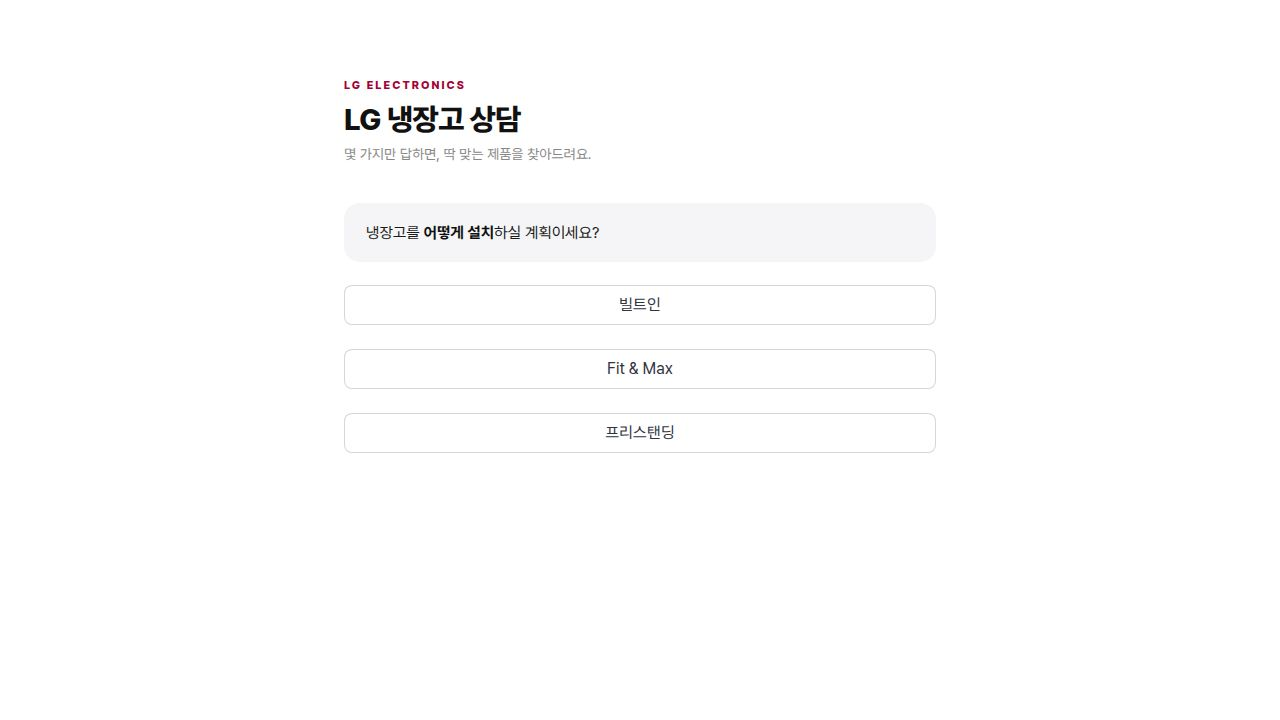
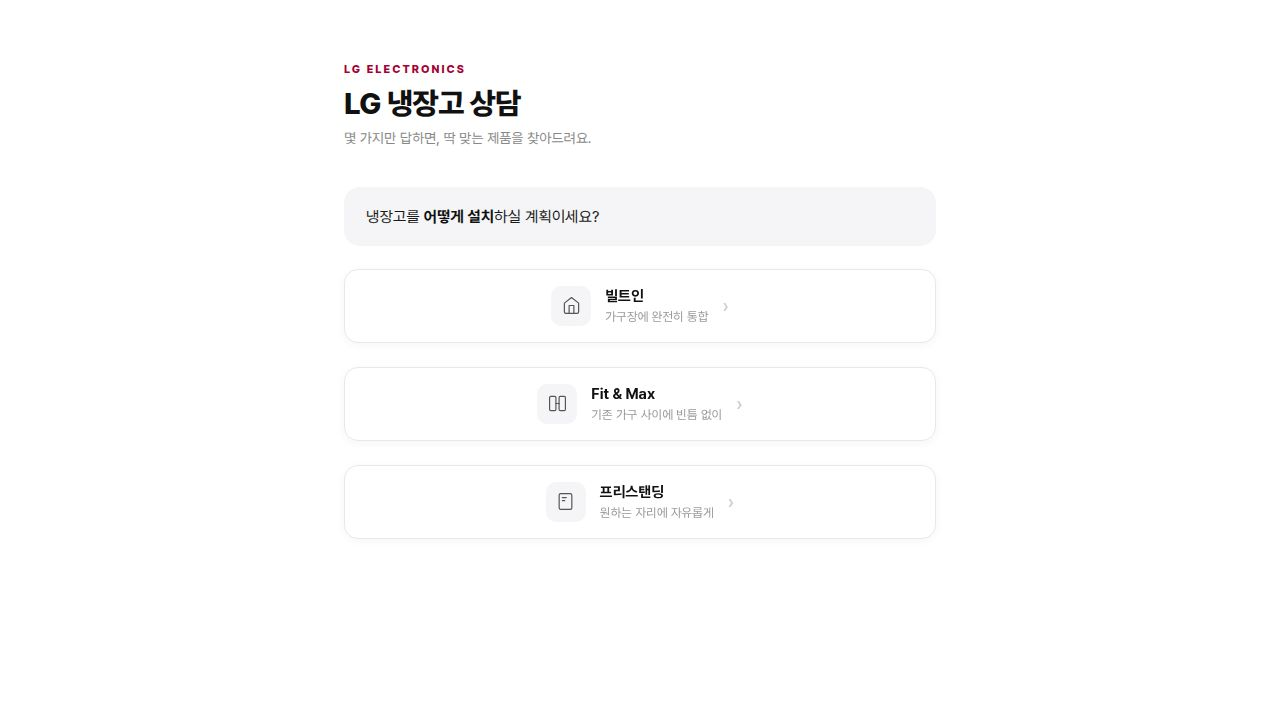
Add ability to go back to previous questions and jump between steps
Updates the UI to include a "Back" button for undoing the last answer and returning to the previous question. It also enhances the header to display clickable "crumbs" that allow users to jump to specific past questions, automatically resetting any subsequent answers. The "Start Over" button remains, and the "Back" button is hidden on the initial screen.

Replit-Commit-Author: Agent
Replit-Commit-Session-Id: 2541019f-cc14-4649-bf17-ee037d41d78c
Replit-Commit-Checkpoint-Type: full_checkpoint
Replit-Commit-Event-Id: 18123e7a-305f-4d48-ba4b-df2dd28f4b01
Replit-Commit-Screenshot-Url: https://storage.googleapis.com/screenshot-production-us-central1/40e5d1fe-8207-4857-9d6f-810c69484021/2541019f-cc14-4649-bf17-ee037d41d78c/hs4MHEg
Replit-Helium-Checkpoint-Created: true

diff --git a/artifacts/lg-advisor/app.py b/artifacts/lg-advisor/app.py
@@ -21,11 +21,34 @@ PRODUCTS, IS_SAMPLE = load_products()
 
 if "answers" not in st.session_state:
     st.session_state.answers = {}
+if "history" not in st.session_state:
+    st.session_state.history = []   # 답변한 q_id 순서 목록
+
 ans = st.session_state.answers
 
 
 def reset():
     st.session_state.answers = {}
+    st.session_state.history = []
+
+
+def go_back():
+    """가장 최근 답변 하나를 취소하고 직전 질문으로 돌아간다."""
+    h = st.session_state.history
+    if h:
+        last_q = h.pop()
+        st.session_state.answers.pop(last_q, None)
+
+
+def jump_to(q_id: str):
+    """해당 질문 단계로 점프 — 그 단계 이후 답변은 모두 초기화."""
+    h = st.session_state.history
+    if q_id in h:
+        idx = h.index(q_id)
+        removed = h[idx:]
+        st.session_state.history = h[:idx]
+        for k in removed:
+            st.session_state.answers.pop(k, None)
 
 
 # ── 라벨 → 아이콘/설명 매핑 (JS에 주입) ───────────────────────────────
@@ -105,6 +128,12 @@ GLOBAL_CSS = f"""
   padding: 4px 11px;
   border-radius: 100px;
   letter-spacing: 0.01em;
+  cursor: pointer;
+  transition: background 0.15s, color 0.15s;
+}}
+.lg-crumb:hover {{
+  background: #FFEAEF;
+  color: #A50034;
 }}
 
 /* ── 질문 말풍선 ── */
@@ -368,8 +397,18 @@ ICON_JS = f"""
     parentDoc.querySelectorAll('button[data-testid="stBaseButton-secondary"]')
       .forEach(btn => {{
 
-        /* 뒤로가기 텍스트 링크 처리 */
         const rawText = (btn.textContent || '').trim();
+
+        /* 히든 점프 버튼 (__jump_xxx__) — 부모 컨테이너 완전히 숨김 */
+        if (rawText.startsWith('__jump_')) {{
+          const wrap = btn.closest('[data-testid="stButton"]') || btn.parentElement;
+          if (wrap) wrap.style.cssText =
+            'position:absolute!important;width:0!important;height:0!important;'
+            + 'overflow:hidden!important;opacity:0!important;pointer-events:none!important;';
+          return;
+        }}
+
+        /* 뒤로가기/이전/처음부터 텍스트 링크 스타일 */
         if (rawText.startsWith('←') || rawText.startsWith('↩')) {{
           btn.classList.add('lg-back-btn');
           return;
@@ -411,6 +450,20 @@ ICON_JS = f"""
         btn.dataset.lgDone = '1';
         _paused = false;
       }});
+
+    /* 크럼 칩 클릭 → 대응하는 히든 점프 버튼 클릭 */
+    parentDoc.querySelectorAll('.lg-crumb[data-qid]').forEach(chip => {{
+      if (chip.dataset.crumbReady) return;
+      chip.dataset.crumbReady = '1';
+      chip.addEventListener('click', () => {{
+        const qid = chip.dataset.qid;
+        const target = '__jump_' + qid + '__';
+        const jumpBtn = Array.from(
+          parentDoc.querySelectorAll('button[data-testid="stBaseButton-secondary"]')
+        ).find(b => (b.textContent || '').trim() === target);
+        if (jumpBtn) jumpBtn.click();
+      }});
+    }});
   }}
 
   /* 페이지 로드 후 즉시 + 짧은 간격 반복 실행 (React 렌더 완료 후 확실히 반영) */
@@ -427,23 +480,24 @@ ICON_JS = f"""
 # ── 헬퍼 함수 ────────────────────────────────────────────────────────
 
 def render_header():
-    crumb_labels = []
+    crumb_data: list[tuple[str, str]] = []   # (q_id, display_label)
     if ans.get("install"):
-        crumb_labels.append(ans["install"])
+        crumb_data.append(("install", ans["install"]))
     hh = dict(E.HOUSEHOLD_OPTS).get(ans.get("household"))
     if hh:
-        crumb_labels.append(hh.split(" (")[0])
+        crumb_data.append(("household", hh.split(" (")[0]))
     ck = dict(E.COOKING_OPTS).get(ans.get("cooking"))
     if ck:
-        crumb_labels.append(ck.split(" (")[0])
+        crumb_data.append(("cooking", ck.split(" (")[0]))
     if ans.get("door_style"):
         ds_map = {"양문형": "양문형", "4도어_no_ai": "4도어", "4도어_ai": "4도어 AI"}
-        crumb_labels.append(ds_map.get(ans["door_style"], ""))
+        crumb_data.append(("door_style", ds_map.get(ans["door_style"], "")))
 
     crumbs_html = ""
-    if crumb_labels:
+    if crumb_data:
         crumbs_html = '<div class="lg-crumbs">' + "".join(
-            f'<span class="lg-crumb">{lbl}</span>' for lbl in crumb_labels
+            f'<span class="lg-crumb" data-qid="{qid}">{lbl}</span>'
+            for qid, lbl in crumb_data
         ) + '</div>'
 
     st.markdown(f"""
@@ -454,6 +508,12 @@ def render_header():
     </div>
     {crumbs_html}
     """, unsafe_allow_html=True)
+
+    # 숨겨진 점프 버튼 (JS가 크럼 클릭 시 자동으로 클릭 — enhance()가 화면에서 감춤)
+    for qid, _ in crumb_data:
+        if st.button(f"__jump_{qid}__", key=f"_jump_{qid}"):
+            jump_to(qid)
+            st.rerun()
 
 
 def q_bubble(text: str):
@@ -469,6 +529,15 @@ def option_buttons(q_id: str):
     q_bubble(q_cfg.text)
     for opt in q_cfg.options:
         if st.button(opt.label, key=f"opt_{q_id}_{opt.value}", use_container_width=True):
+            h = st.session_state.history
+            if q_id in h:
+                # 이미 답변한 질문을 다시 선택 → 이후 답변 모두 초기화
+                idx = h.index(q_id)
+                for k in h[idx + 1:]:
+                    st.session_state.answers.pop(k, None)
+                st.session_state.history = h[:idx + 1]
+            else:
+                h.append(q_id)
             ans[q_id] = opt.value
             st.rerun()
 
@@ -544,6 +613,9 @@ elif q == "features":
             chosen.append(key)
     st.markdown("<div style='height:8px'></div>", unsafe_allow_html=True)
     if st.button("이 기능으로 추천받기", type="primary", use_container_width=True):
+        h = st.session_state.history
+        if "features" not in h:
+            h.append("features")
         ans["wanted_features"] = chosen
         st.rerun()
 
@@ -612,12 +684,18 @@ elif q == "result":
         reset()
         st.rerun()
 
-# ── 뒤로가기 ──
+# ── 하단 네비게이션 (이전 / 처음부터) ──
 if q != "result" and ans:
-    st.markdown("<div style='height:12px'></div>", unsafe_allow_html=True)
-    if st.button("← 처음부터", key="restart_top"):
-        reset()
-        st.rerun()
+    st.markdown("<div style='height:16px'></div>", unsafe_allow_html=True)
+    col_prev, col_reset = st.columns(2)
+    with col_prev:
+        if st.button("← 이전", key="go_back", use_container_width=True):
+            go_back()
+            st.rerun()
+    with col_reset:
+        if st.button("← 처음부터", key="restart_top", use_container_width=True):
+            reset()
+            st.rerun()
 
 # ── 아이콘 JS 주입 (components.html → iframe → window.parent.document 접근) ──
 # height=0 으로 invisible iframe, 실제 DOM 조작은 부모 프레임에서 수행